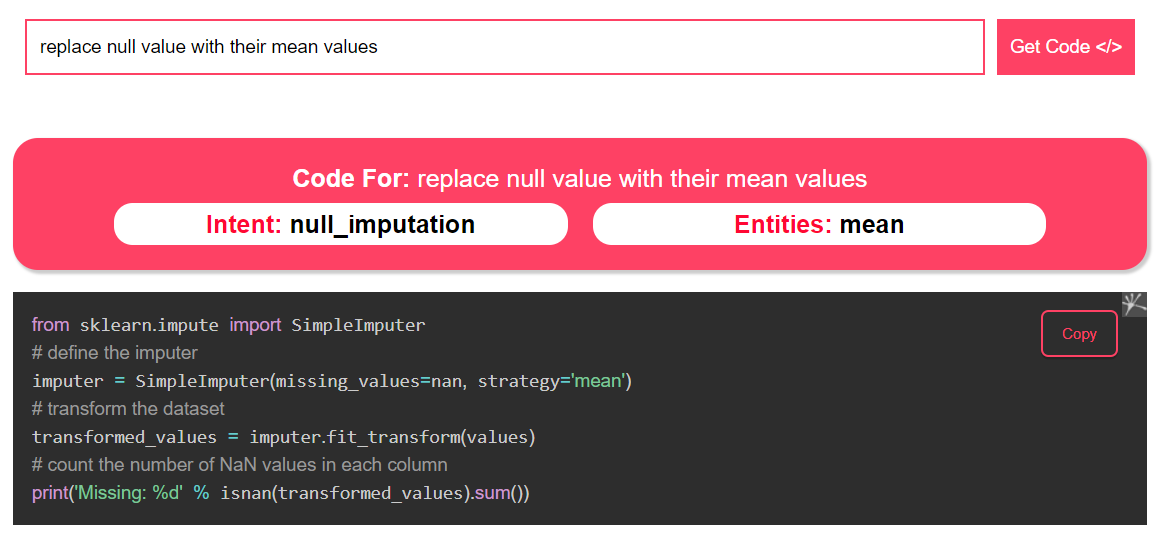
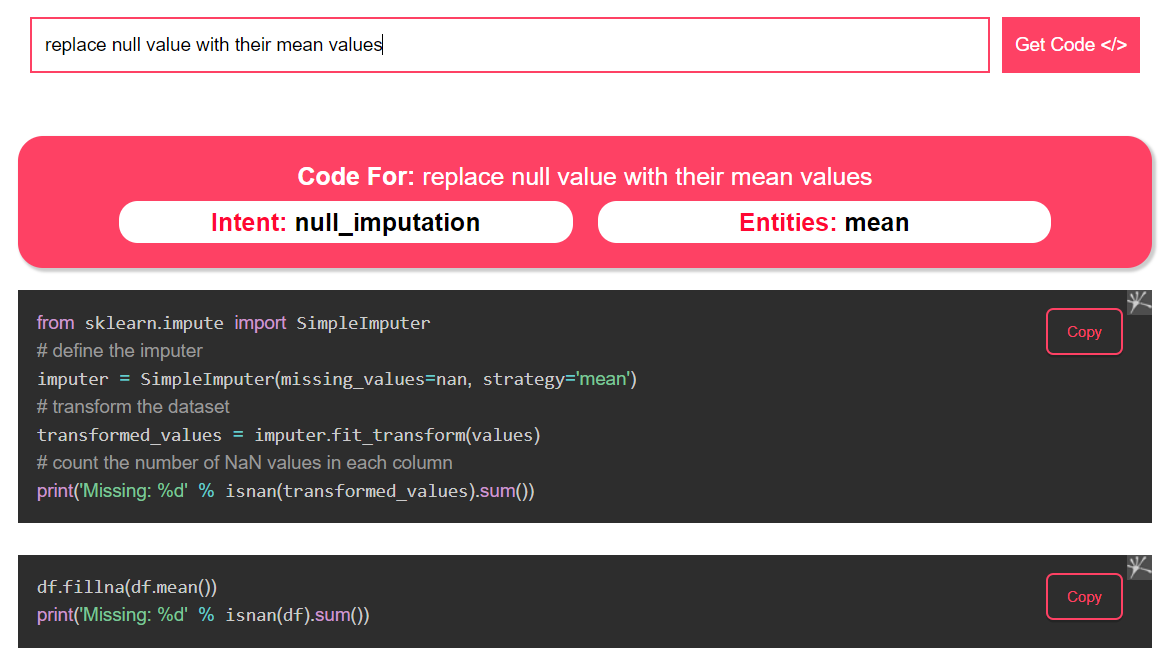
codify api multiple code acceptance feature added

diff --git a/static/js/script.js b/static/js/script.js
@@ -1,5 +1,8 @@
-function addNewCard(query, code, intent, entities) {
-
+function addNewCard(data) {
+    query = data[0]["text"]
+    intent = data[0]["intent"]
+    entities = data[0]["intent"]
+    
     const cards = document.querySelector(".cards");
     cards.style.visibility = "visible";
     newCard = `
@@ -10,55 +13,60 @@ function addNewCard(query, code, intent, entities) {
                     <h5>Intent: <span>${intent}</span></h5>
                     <h5>Entities: <span>${entities}</span></h5>
                 </div>
-            </div>
-            <div class="code-center">
-                <pre>
-                    <code class="language-python">
-                        ${code}
-                    </code>
-                </pre>
-            </div>
-        </div>
-    `
-    cards.innerHTML = newCard + cards.innerHTML;
+            </div>`
+    
+    for(let i=0; i<data.length; i++) {
+        newCard += `<div class="code-center">
+                    <pre>
+                        <code class="language-python">
+                            ${data[i]['code']}
+                        </code>
+                    </pre>
+                </div>`
+    }
+        
+        
+        newCard += `</div>`
+    cards.innerHTML += newCard;
     Prism.highlightAll();
 
 }
 
 
 function getCode() {
-    addNewCard(
-        codes[0]["query"], codes[0]["code"],
-        codes[0]["intent"], codes[0]["entities"]
-    );
+    addNewCard(data);
 }
 
 function randomNumber(min, max) {
     return Math.floor(Math.random() * (max - min) + min); 
 }
 
-codes = [
+const data = [
     {
         "id": 1,
-        "query": "Demo code for flask routing with port set to 3000, from backend",
+        "query": "replace null value with their mean values",
         "intent": "null_imputation",
         "entities": "mean",
+        "priority": 1,
         "code": `
-                from flask import Flask
-                app = Flask(__name__)
-
-                # route
-                @app.route('/')
-                # route function
-                def home():
-                    # send 'hey!'
-                    return 'hey!'
-
-                # listen
-                if __name__ == "__main__":
-                    app.run(port=3000)
-                    # if you need to make it live debuging add 'debug=True'
-                    # app.run(port=3000, debug=True)
+                 from sklearn.impute import SimpleImputer
+                # define the imputer
+                imputer = SimpleImputer(missing_values=nan, strategy='mean')
+                # transform the dataset
+                transformed_values = imputer.fit_transform(values)
+                # count the number of NaN values in each column
+                print('Missing: %d' % isnan(transformed_values).sum())
+            `
+    }, 
+    {
+        "id": 2,
+        "query": "replace null value with their mean values",
+        "intent": "null_imputation",
+        "entities": "mean",
+        "priority": 2,
+        "code": `
+                df.fillna(df.mean())
+                print('Missing: %d' % isnan(df).sum())
             `
     }
 ];

diff --git a/index.html b/index.html
@@ -26,7 +26,7 @@
             Codify
         </h2>
         <h5 class="tagline">
-            <span>Instantly</span> Convert your <span>Thoughs</span> into <span>Code</span>
+            <span>Instantly</span> Convert your <span>Thoughts</span> into <span>Code</span>
         </h5>
         <div class="nav text-center">
             <h5><a href="" class="active">Home</a></h5>
@@ -65,6 +65,14 @@
                     transformed_values = imputer.fit_transform(values)
                     # count the number of NaN values in each column
                     print('Missing: %d' % isnan(transformed_values).sum())
+                    </code>
+                </pre>
+            </div>
+            <div class="code-center">
+                <pre>
+                    <code class="language-python">
+                    df.fillna(df.mean())
+                    print('Missing: %d' % isnan(df).sum())
                     </code>
                 </pre>
             </div>
